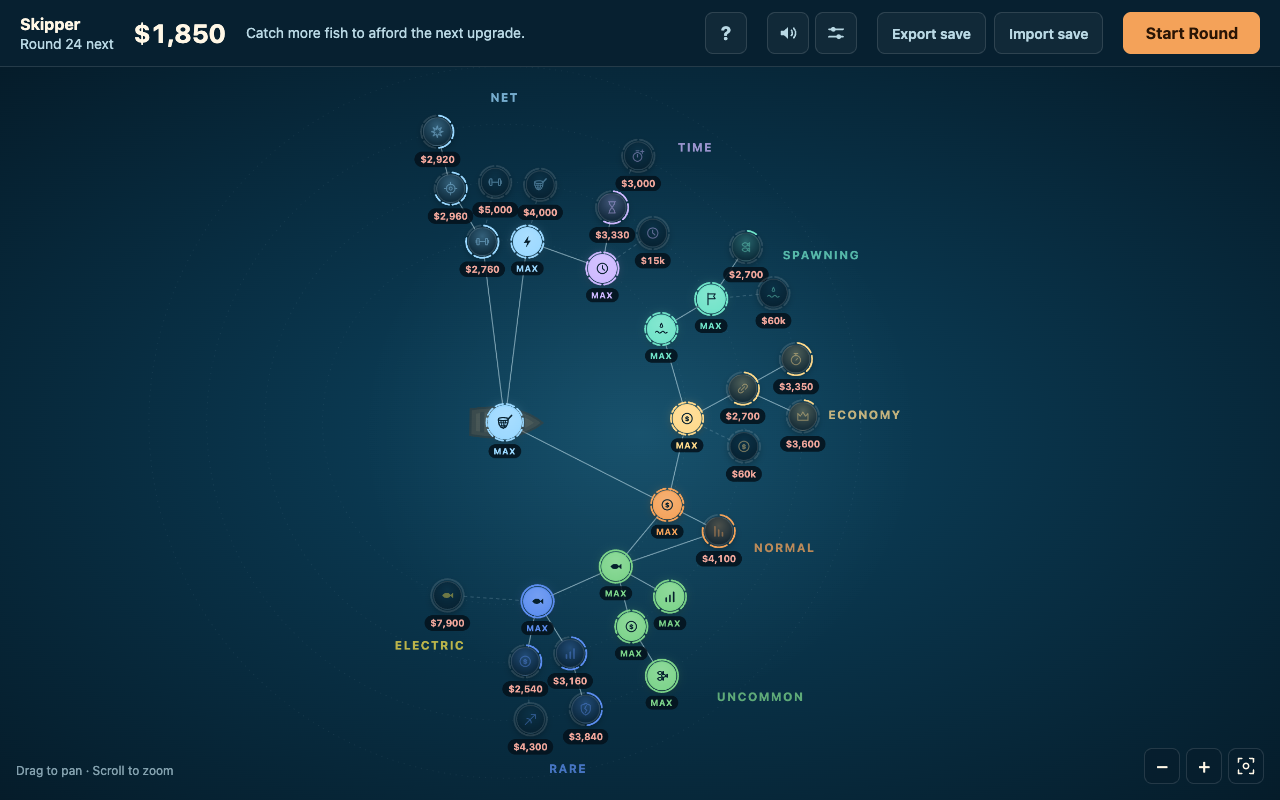
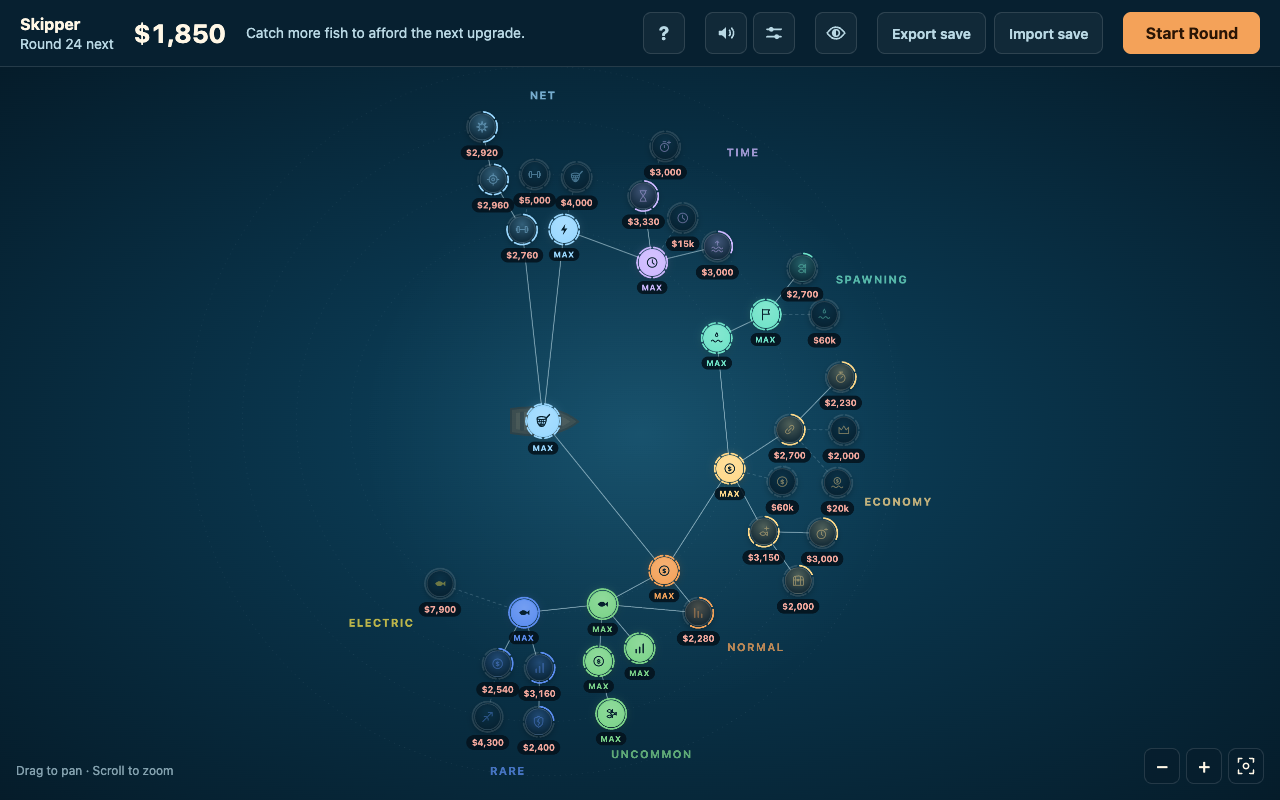
Describe golden fish, treasure chests, the Feeding Frenzy and the colour-blind palette in the README
Also refresh the screenshots: the hub bar has the palette switch and the tree
has the new upgrades.

diff --git a/README.md b/README.md
@@ -29,7 +29,8 @@ upgrades between rounds, unlock stranger fish, and work your way to the Final Ro
 - **New here?** First-time players get a three-slide walkthrough before round 1. The **?** button
   in the hub shows it again.
 - **Sound.** Press **M**, or the speaker button, to mute. In the hub, the button next to it sets
-  the music and effects volume. On smaller screens, open **⋯** for help, sound, and save tools.
+  the music and effects volume. On smaller screens, open **⋯** for help, sound, display and save
+  tools.
 
 ![The tech tree: upgrade nodes spread out from a boat in branches for the net, time, economy, spawning and each fish type](docs/screenshots/tech-tree.png)
 
@@ -53,11 +54,29 @@ upgrades between rounds, unlock stranger fish, and work your way to the Final Ro
 A fish caught by any of these effects counts as caught by you, so its own ability fires too and
 chains can run through the whole sea.
 
+## Surprises
+
+| What | When | What it does |
+| --- | --- | --- |
+| Golden fish | From round 2, about one every 17 seconds | A gold copy of any fish, worth 10×. It sparkles even as a silhouette, flees your net, and dives away after 8 seconds. |
+| Treasure chest | Some rounds from round 3; always in the Final Round | Floats across the sea. Break it open with your net for a big payout, plus extra time or a spill of golden fish. |
+| Feeding Frenzy | Every fifth round, and the Final Round | A wave of fish sweeps across the sea. For a few seconds fish spawn much faster and every catch pays 1.5×. The hub warns you before the round. |
+
+Upgrades in the tree make each of them come more often, last longer or pay more.
+
+## Accessibility
+
+- **Colour-blind palette.** The eye button in the hub switches every fish type to colours that
+  stay distinct under protanopia, deuteranopia and tritanopia. Fish shapes differ too, and golden
+  fish, chests and the Feeding Frenzy are marked by shape, motion and text, not colour alone.
+- **Reduced motion.** The how-to-play slides show still pictures when your system asks for less
+  motion.
+
 ## Saving
 
 Progress is saved in your browser. Export your save to a file to move it to another browser or
-computer, and import it there. Sound settings are kept apart from the save: Play Again and
-importing a save leave them as they are.
+computer, and import it there. Sound and display settings are kept apart from the save: Play
+Again and importing a save leave them as they are.
 
 Full design: [docs/GAME_DESIGN.md](docs/GAME_DESIGN.md).
 
